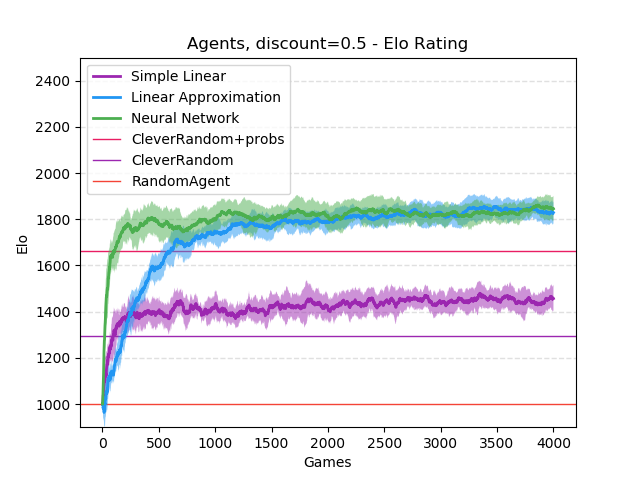
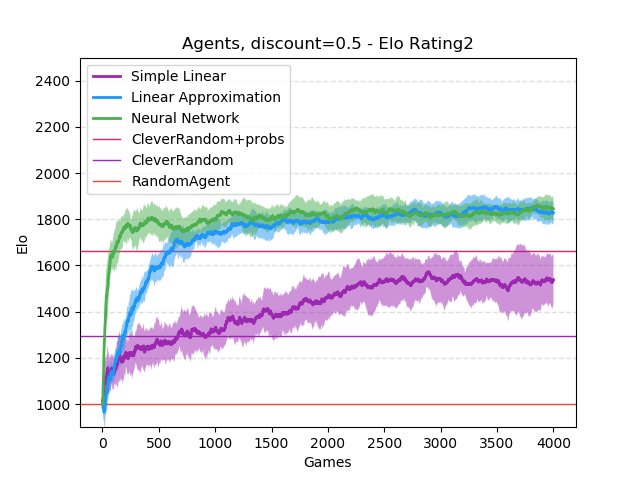
better_simple_linear_lr

Changed region(s): [[0.1562, 0.5, 0.875, 0.8125], [0.2812, 0.0625, 0.75, 0.125]]

diff --git a/plotgenerators/agentsplot.py b/plotgenerators/agentsplot.py
@@ -3,9 +3,9 @@ import numpy as np
 
 for discount in [0.5, 0.75, 0.95]:
 
-    l = [(f'SL-discount-{discount}-NoTrain-alpha-0.00001', 'Simple Linear', '#9C27B0'), (f'LA-discount-{discount}-NoTrain-alpha-0.000001', 'Linear Approximation', '#2196F3'), (f'NN-discount-{discount}-NoTrain-lr-0.0002', 'Neural Network', '#4CAF50')]
+    l = [(f'SL-discount-{discount}-NoTrain-alpha-0.000001', 'Simple Linear', '#9C27B0'), (f'LA-discount-{discount}-NoTrain-alpha-0.000001', 'Linear Approximation', '#2196F3'), (f'NN-discount-{discount}-NoTrain-lr-0.0002', 'Neural Network', '#4CAF50')]
 
-    with EloPlot(title=f'Agents, discount={discount} - Elo Rating', saves=[f'GoodPlots/Agents-{discount}.png']) as plt:
+    with EloPlot(title=f'Agents, discount={discount} - Elo Rating2', saves=[f'GoodPlots/Agents-{discount}.png']) as plt:
         for EloOverTime, name, agent, color in Data([f".\\outputs\\{a[0]}\\csv" for a in l], colors=[a[2] for a in l], elo=False):
             name = [a[1] for a in l if a[0] == name][0]
             plt.varPlot(plt, EloOverTime, name, color)
